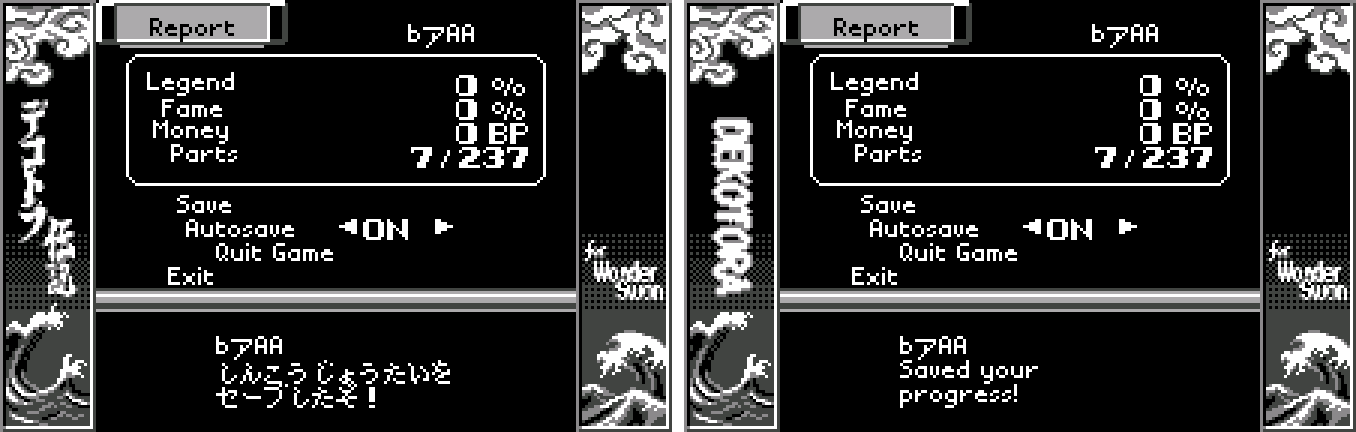
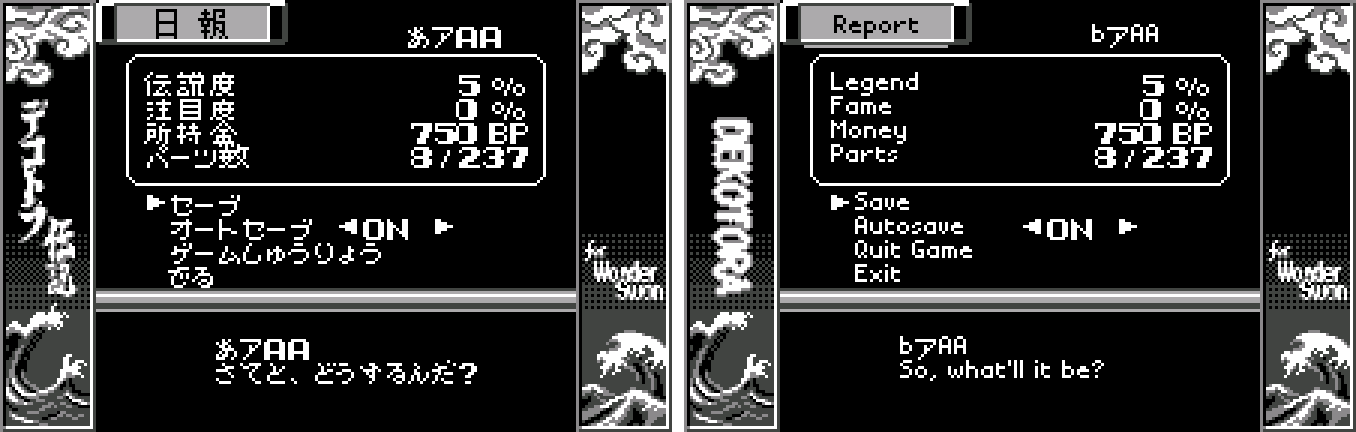
Bakusou Dekotora Densetsu v1.2: playtest fixes
Game page (changelog, special edition notes, How to patch CRCs, known
issues), catalog row, images 05/06/08/10 updated and 11 (race results) added.

diff --git a/games/dekotora/README.md b/games/dekotora/README.md
@@ -1,4 +1,4 @@
-# Bakusou Dekotora Densetsu for WonderSwan (WonderSwan) - AI English translation patch v1.1 (+ special edition, may be buggy)
+# Bakusou Dekotora Densetsu for WonderSwan (WonderSwan) - AI English translation patch v1.2 (+ special edition, may be buggy)
 
 **Bakusou Dekotora Densetsu for WonderSwan** (爆走デコトラ伝説) is KID and Kaga Tech's 1999 trucking-and-racing game about *dekotora*, Japan's lit-up, chrome-covered decorated trucks, released only in Japan for the original (monochrome) WonderSwan. You play a young trucker who left his hometown girlfriend Yukie with a promise: he'll become Japan's No. 1 trucker and come back for her. You haul cargo between 20 cities, race rival truckers over the CB radio for their parts and their money (BP), climb a ladder of expressway bosses all the way to Hokkaido, and tune and decorate your truck. Along the way you meet six women, and at the end you choose where to go. It's earnest, corny, hot-blooded melodrama with plenty of trash talk, and nobody in it is subtle. That's the charm.
 
@@ -7,8 +7,8 @@
 **What's translated**
 
 * The whole script, about 4,900 lines: the story, every rival trucker's challenge and taunts, the six women's stories and the endings, jobs and cargo, shops, parts, and the CB radio chatter.
-* Menus, the name entry (an English letter grid), race HUD labels and song captions, results, the report and save screens, and the ending credits.
-* Graphics: the title logo (BAKUSOU / DEKOTORA DENSETSU, redrawn in the original's brush style) and the side banner (DEKOTORA); the title buttons (ALL JAPAN / VS LINK); the hub, garage, shop and report buttons and headings (208 labels); SHOW / DOWN for rival showdowns; YOU WIN! / YOU LOSE banners.
+* Menus, the name entry (an English letter grid), race HUD labels and the song lines shown during races, results, the report and save screens, and the ending credits.
+* Graphics: the title logo (BAKUSOU / DEKOTORA DENSETSU, redrawn in the original's brush style) and the side banner (DEKOTORA); the title buttons (ALL JAPAN / VS LINK); the hub, garage, shop and report buttons and headings (208 labels); SHOW / DOWN for rival showdowns; YOU WIN! / YOU LOSE banners and WON / LOST on the results.
 * Left as in the original: three kanji on the two-player course map.
 
 Names: the women are Yukie, Kumi (the operator), Aki, Miki, Nami, Megumi and Maki. The expressway bosses run from Tanaka in Kyushu through Kojiro, Ueno, Ishii, Keiko, Shizuka and more, up to Bunjiro in Hokkaido. Pops runs the parts shop, and Roamer is the trucker who first shows you the ropes.
@@ -17,11 +17,11 @@ Names: the women are Yukie, Kumi (the operator), Aki, Miki, Nami, Megumi and Mak
 
 **The special edition: Event Select (may be buggy)**
 
-The developers left a hidden event selector in the game that nothing in the original can reach. The special edition (`dekotora-en-special-1.1.bps`) puts it on the start menu:
+The developers left a hidden event selector in the game that nothing in the original can reach. The special edition (`dekotora-en-special-1.2.bps`) puts it on the start menu:
 
-* **Opening it:** Title screen → ALL JAPAN → the third entry, which reads **Event Select** in the special edition. It needs a saved game. (That entry was View Parts List; the parts list is still in the garage under List.)
+* **Opening it:** Title screen → ALL JAPAN → the third entry, which reads **Event Select** in the special edition. (That entry was View Parts List; the parts list is still in the garage under List.)
 * **Using it:** EVENT NO= appears over a truck-stop picture. UP/DOWN change the number by 1, LEFT/RIGHT by 10 (0-199), and A plays that event: job offers, each region's arrival and rest scenes, rival challenges and races, the endings' openings, and event 199, the staff credits.
-* **Limits:** there's no way back out. B and START do nothing in the original code, so you leave by choosing an event or switching off. Events start out of story order, so it's for viewing scenes, not for playing the story through. About 40 numbers show nothing, event 99 never finishes, and event 148 shows garbage on the original Japanese cartridge too.
+* **Leaving it:** B returns to the start menu. Choosing an event doesn't come back; events start out of story order, so it's for viewing scenes, not for playing the story through. About 40 numbers show nothing, event 99 never finishes, and event 148 shows garbage on the original Japanese cartridge too.
 * **It may be buggy.** It's the developers' leftover tool, not a finished feature. Keep a copy of your save and play the standard edition for the actual game.
 
 **How it was made: AI translation, independent checks, human decisions**
@@ -33,6 +33,16 @@ The developers left a hidden event selector in the game that nothing in the orig
 
 **Changelog**
 
+* **v1.2** (from a playtest):
+  * Special edition: in v1.1, Garage → List opened the event selector instead of the parts list, and leaving it with B froze the game. List is the parts list again, Event Select is only on the start menu, and B leaves it.
+  * Names can be shorter than 4 letters (truck: 8) again: ↓ on the name grid finishes, as in the original (help line START=Aa ↓=Done).
+  * The song lines and the Victory / Defeat box during races are in proper case (races overwrite the font's capital letters, so they were lowercase before).
+  * The menu font's lowercase is redrawn bold to match the game's capitals and numbers, which had looked oversized next to it.
+  * YOU WIN! / YOU LOSE use bold full-height letters; the results show WON / LOST.
+  * Labels on the Results and Arrival screens line up as in the original; Legend / Fame / Money are easier to read.
+  * Parts Taken lists the parts in one column, so long names no longer run under the border art.
+  * The parts list (Garage → List) clears each row fully and long names were shortened to fit (Std Bumper, M-Arm1, BP-Hokusai, Clear off! ...).
+  * Nine cargo names that had been squeezed together are shorter and readable (Tables, Mags, Greens, Udon ...).
 * **v1.1**: the title logo and the side banner are in English, drawn in the original's brush style (BAKUSOU / DEKOTORA DENSETSU on the title, DEKOTORA on the banner that frames most screens); the ending credits spell the title "Bakusou" to match. PUSH START on the title now looks and blinks exactly as in the original (v1.0 drew it in the small font, off centre, and left "'ART" behind when it blinked off).
 * **v1.0**: first release.
 
@@ -83,24 +93,27 @@ The developers left a hidden event selector in the game that nothing in the orig
 
    ![The report screen](images/10-report.png)
 
+11. Race results
+
+   ![Race results](images/11-results.png)
+
 
 **How to patch**
 
 Apply one of the BPS files to the Japanese ROM "Bakusou Dekotora Densetsu for WonderSwan (Japan)" (CRC32 392DD813) in your browser with the [Swan Revival patcher](https://swanrevival.com/patcher/), or with Floating IPS, beat or ROM Patcher JS:
 
-* Standard: `dekotora-en-1.1.bps`, the result should be CRC32 DCB0185E.
-* Special edition (Event Select, may be buggy): `dekotora-en-special-1.1.bps`, the result should be CRC32 814AD964.
+* Standard: `dekotora-en-1.2.bps`, the result should be CRC32 53BF9C12.
+* Special edition (Event Select, may be buggy): `dekotora-en-special-1.2.bps`, the result should be CRC32 7B5D5B73.
 
 The English ROM is 4 MB (the original is 2 MB) because the translation needed more room: use an emulator or a flash cart that takes 32 Mbit WonderSwan ROMs. It's a WonderSwan (mono) game, so keep the .ws extension.
 
 You must provide your own copy of the original Japanese game to apply it.
 
-**Download:** `dekotora-en-1.1.bps`, `dekotora-en-special-1.1.bps` on the [release page](https://github.com/PokemonGoDB/wonderswan-english-patches/releases/tag/dekotora-v1.1).
+**Download:** `dekotora-en-1.2.bps`, `dekotora-en-special-1.2.bps` on the [release page](https://github.com/PokemonGoDB/wonderswan-english-patches/releases/tag/dekotora-v1.2).
 
 **Known issues**
 
 * It hasn't been played start to finish by a person. If you find leftover Japanese, cut text or a crash, please tell me where it happened.
-* In the Parts Taken list, a very long part name can run under the border art. It's rare.
 * The two-player VS LINK screens are translated but untested (they need two consoles).
 
 **Technical notes (for the curious)**
@@ -108,7 +121,8 @@ You must provide your own copy of the original Japanese game to apply it.
 * The dialogue now uses a variable-width font, so English fits the original boxes. The ROM was expanded to 4 MB to hold the longer text.
 * The hub, garage, shop and report screens were buttons and headings drawn as pictures; all 208 were redrawn.
 * The English logo needs more picture tiles than the Japanese one, so the logo picture moved to the expanded ROM's free space; the banner was redrawn in the tiles the Japanese lettering freed. PUSH START (English in the original) goes through the game's own 8x8 font copier, not the dialogue engine.
-* The event selector is unused developer code at F000:E005. The special edition swaps the start menu's View Parts List call for the scene setup and the selector.
+* The event selector is unused developer code at F000:E005. The special edition rewrites the start menu's View Parts List branch with a scene setup and the selector (v1.1 had patched the parts-list routine itself, which the garage also uses).
+* During races the HUD graphics overwrite the font's capitals, so race text uses copies of the capitals placed in font slots the race leaves alone.
 
 **A Note On My Justifications for AI Use**
 

diff --git a/README.md b/README.md
@@ -14,7 +14,7 @@ English translation patches for Japanese-only WonderSwan and WonderSwan Color ga
 | [One Piece: Grand Battle Swan Colosseum](games/grand-battle/README.md) | WonderSwan Color | [1.3](https://github.com/PokemonGoDB/wonderswan-english-patches/releases/tag/grand-battle-v1.3) | BPS | `F8A1DD2B` | `F3DB0917` |
 | [beatmania for WonderSwan](games/beatmania/README.md) (Practice mode) | WonderSwan | [1.0](https://github.com/PokemonGoDB/wonderswan-english-patches/releases/tag/beatmania-v1.0) | BPS | `324622C9` | `513EE998` |
 | [Anchorz Field](games/anchorz-field/README.md) | WonderSwan | [1.0](https://github.com/PokemonGoDB/wonderswan-english-patches/releases/tag/anchorz-field-v1.0) | BPS | `425EB893` | `34A7D483` |
-| [Bakusou Dekotora Densetsu for WonderSwan](games/dekotora/README.md) (+ special edition, may be buggy) | WonderSwan | [1.1](https://github.com/PokemonGoDB/wonderswan-english-patches/releases/tag/dekotora-v1.1) | BPS | `392DD813` | `DCB0185E` (special `814AD964`) |
+| [Bakusou Dekotora Densetsu for WonderSwan](games/dekotora/README.md) (+ special edition, may be buggy) | WonderSwan | [1.2](https://github.com/PokemonGoDB/wonderswan-english-patches/releases/tag/dekotora-v1.2) | BPS | `392DD813` | `53BF9C12` (special `7B5D5B73`) |
 | [Chou Denki Card Battle: Youfu Makai](games/youfu-makai/README.md) | WonderSwan | [1.0](https://github.com/PokemonGoDB/wonderswan-english-patches/releases/tag/youfu-makai-v1.0) | BPS | `56E2C069` | `CB5FACF7` |
 | [Densha de Go!](games/densha-de-go/README.md) | WonderSwan | [1.0](https://github.com/PokemonGoDB/wonderswan-english-patches/releases/tag/densha-de-go-v1.0) | BPS | `B62E5DD0` | `A8ACDDA0` |
 | [Dokodemo Hamster](games/dokodemo-hamster/README.md) (+ Long Names edition, may be buggy) | WonderSwan | [1.0](https://github.com/PokemonGoDB/wonderswan-english-patches/releases/tag/dokodemo-hamster-v1.0) | BPS | `89E7D950` | `F67C5588` (Long Names `22F04AF5`) |
